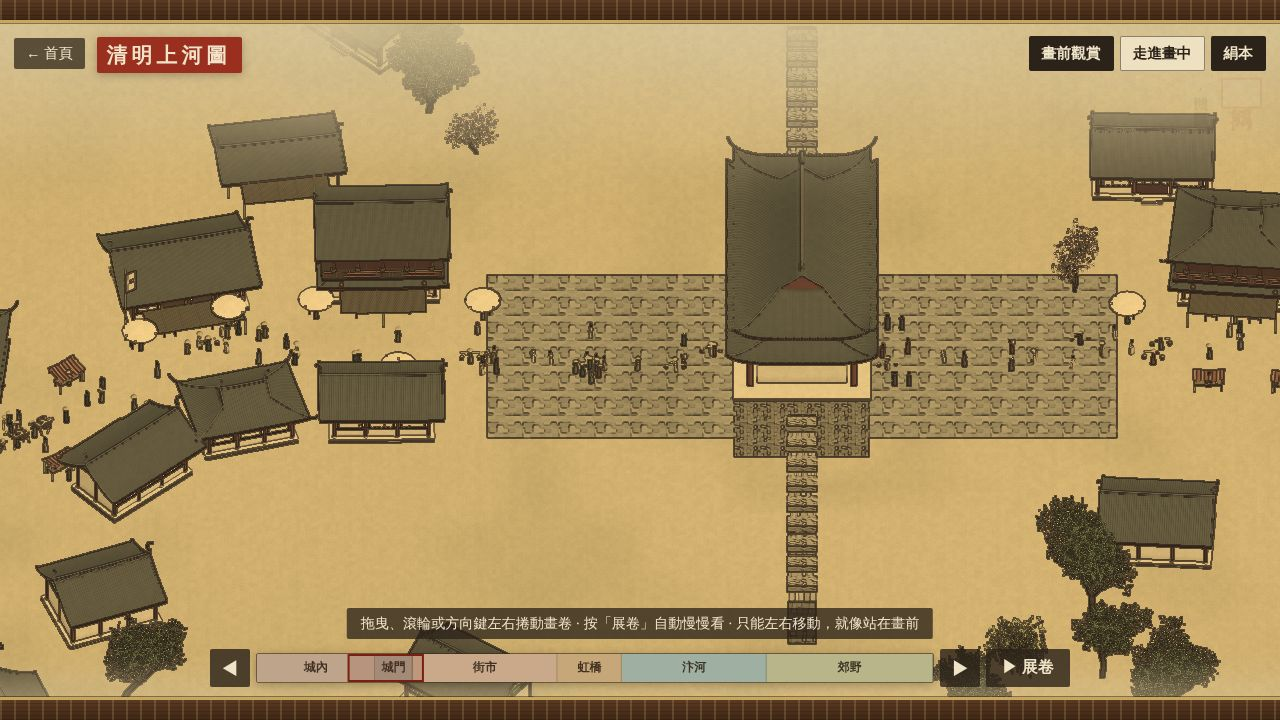
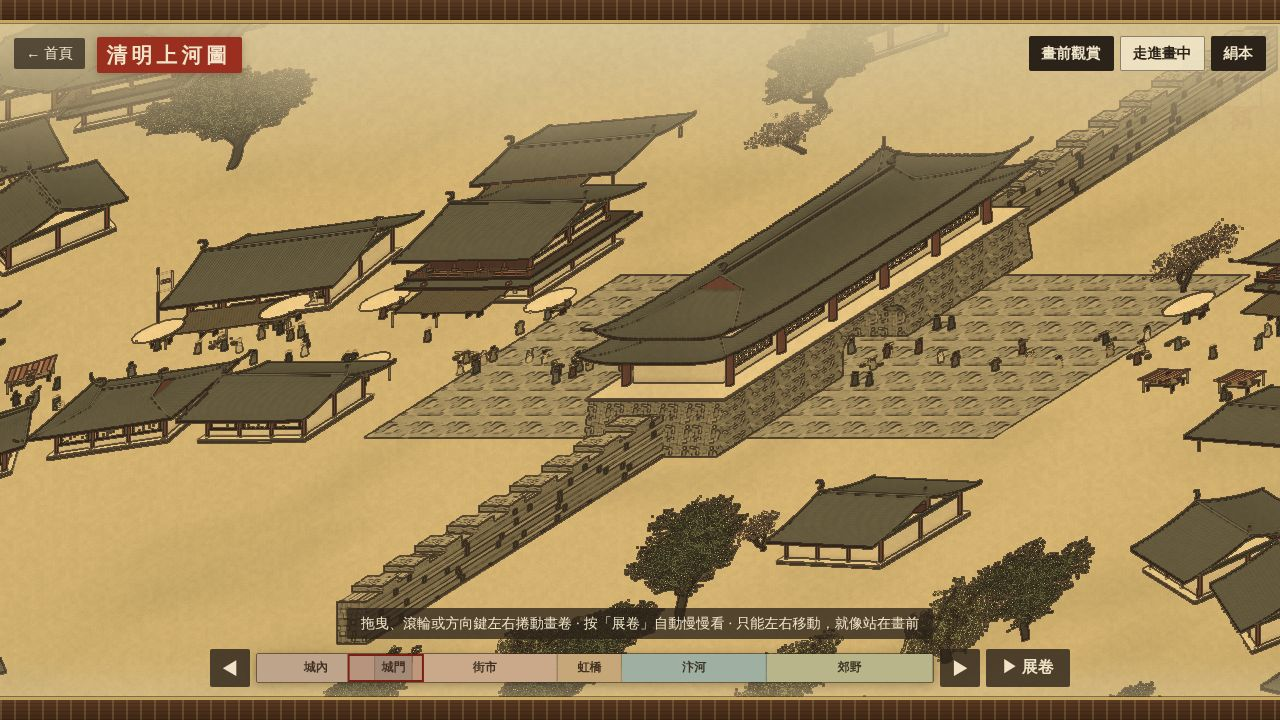
清明上河圖：畫前模式改用界畫斜投影
原畫的建築是「斜角平行投影」：正面保持水平、垂直線保持垂直，往深處的線斜斜往右上。
畫前模式的正交相機在視圖矩陣加上依深度的水平錯切（x' = x - k·(z - z0)，k = 1.1），
虹橋變成從左下斜跨到右上、看得到拱的側面，城門看得到城台側面與斜走的城牆。
只改相機，場景與走進畫中的地圖完全不變。可用 ?k= 調整錯切強度。

Claude-Session: https://claude.ai/code/session_01A8bzoshNc2AoFtgcasqWGZ

diff --git a/qingming/js/main.js b/qingming/js/main.js
@@ -53,6 +53,9 @@ function followShadow(x, z) {
 const PITCH = THREE.MathUtils.degToRad(44);       // 畫卷的俯視角
 const VIEW_H = 80;                                // 畫面高度（公尺）
 const ortho = new THREE.OrthographicCamera(-1, 1, 1, -1, 1, 3000);
+ortho.matrixWorldAutoUpdate = false;            // 視圖矩陣自己算（含斜投影錯切）
+const SHEAR = new THREE.Matrix4();
+const OBLIQUE = params.has("k") ? +params.get("k") : 1.1;   // 錯切強度：往北 1 公尺，畫面往右 k 公尺
 const persp = new THREE.PerspectiveCamera(60, innerWidth / innerHeight, 0.2, 6000);
 let camera = ortho;
 // 畫面中線沿著畫卷的走向（汴河斜斜穿過畫面）
@@ -68,7 +71,15 @@ function placeOrtho() {
   const x = pan.x, z = zAt(x);
   ortho.position.set(x, P.LAND + Math.sin(PITCH) * 1000, z + Math.cos(PITCH) * 1000);
   ortho.up.set(0, 1, 0);
+  ortho.matrixWorldAutoUpdate = true;
+  ortho.updateMatrixWorld(true);
   ortho.lookAt(x, P.LAND, z);
+  // 界畫的斜投影：正面保持水平、垂直線保持垂直，往深處（北）的線斜斜往右上走。
+  // 做法是在視圖矩陣裡加一個「依深度水平錯切」：x' = x - k·(z - z0)。只影響畫前模式，場景本身不動。
+  ortho.updateMatrixWorld(true);
+  ortho.matrixWorldAutoUpdate = false;
+  SHEAR.set(1, 0, -OBLIQUE, OBLIQUE * z, 0, 1, 0, 0, 0, 0, 1, 0, 0, 0, 0, 1);
+  ortho.matrixWorldInverse.multiply(SHEAR);
 }
 
 /* ---------------- 繪畫效果（絹本設色） ---------------- */
